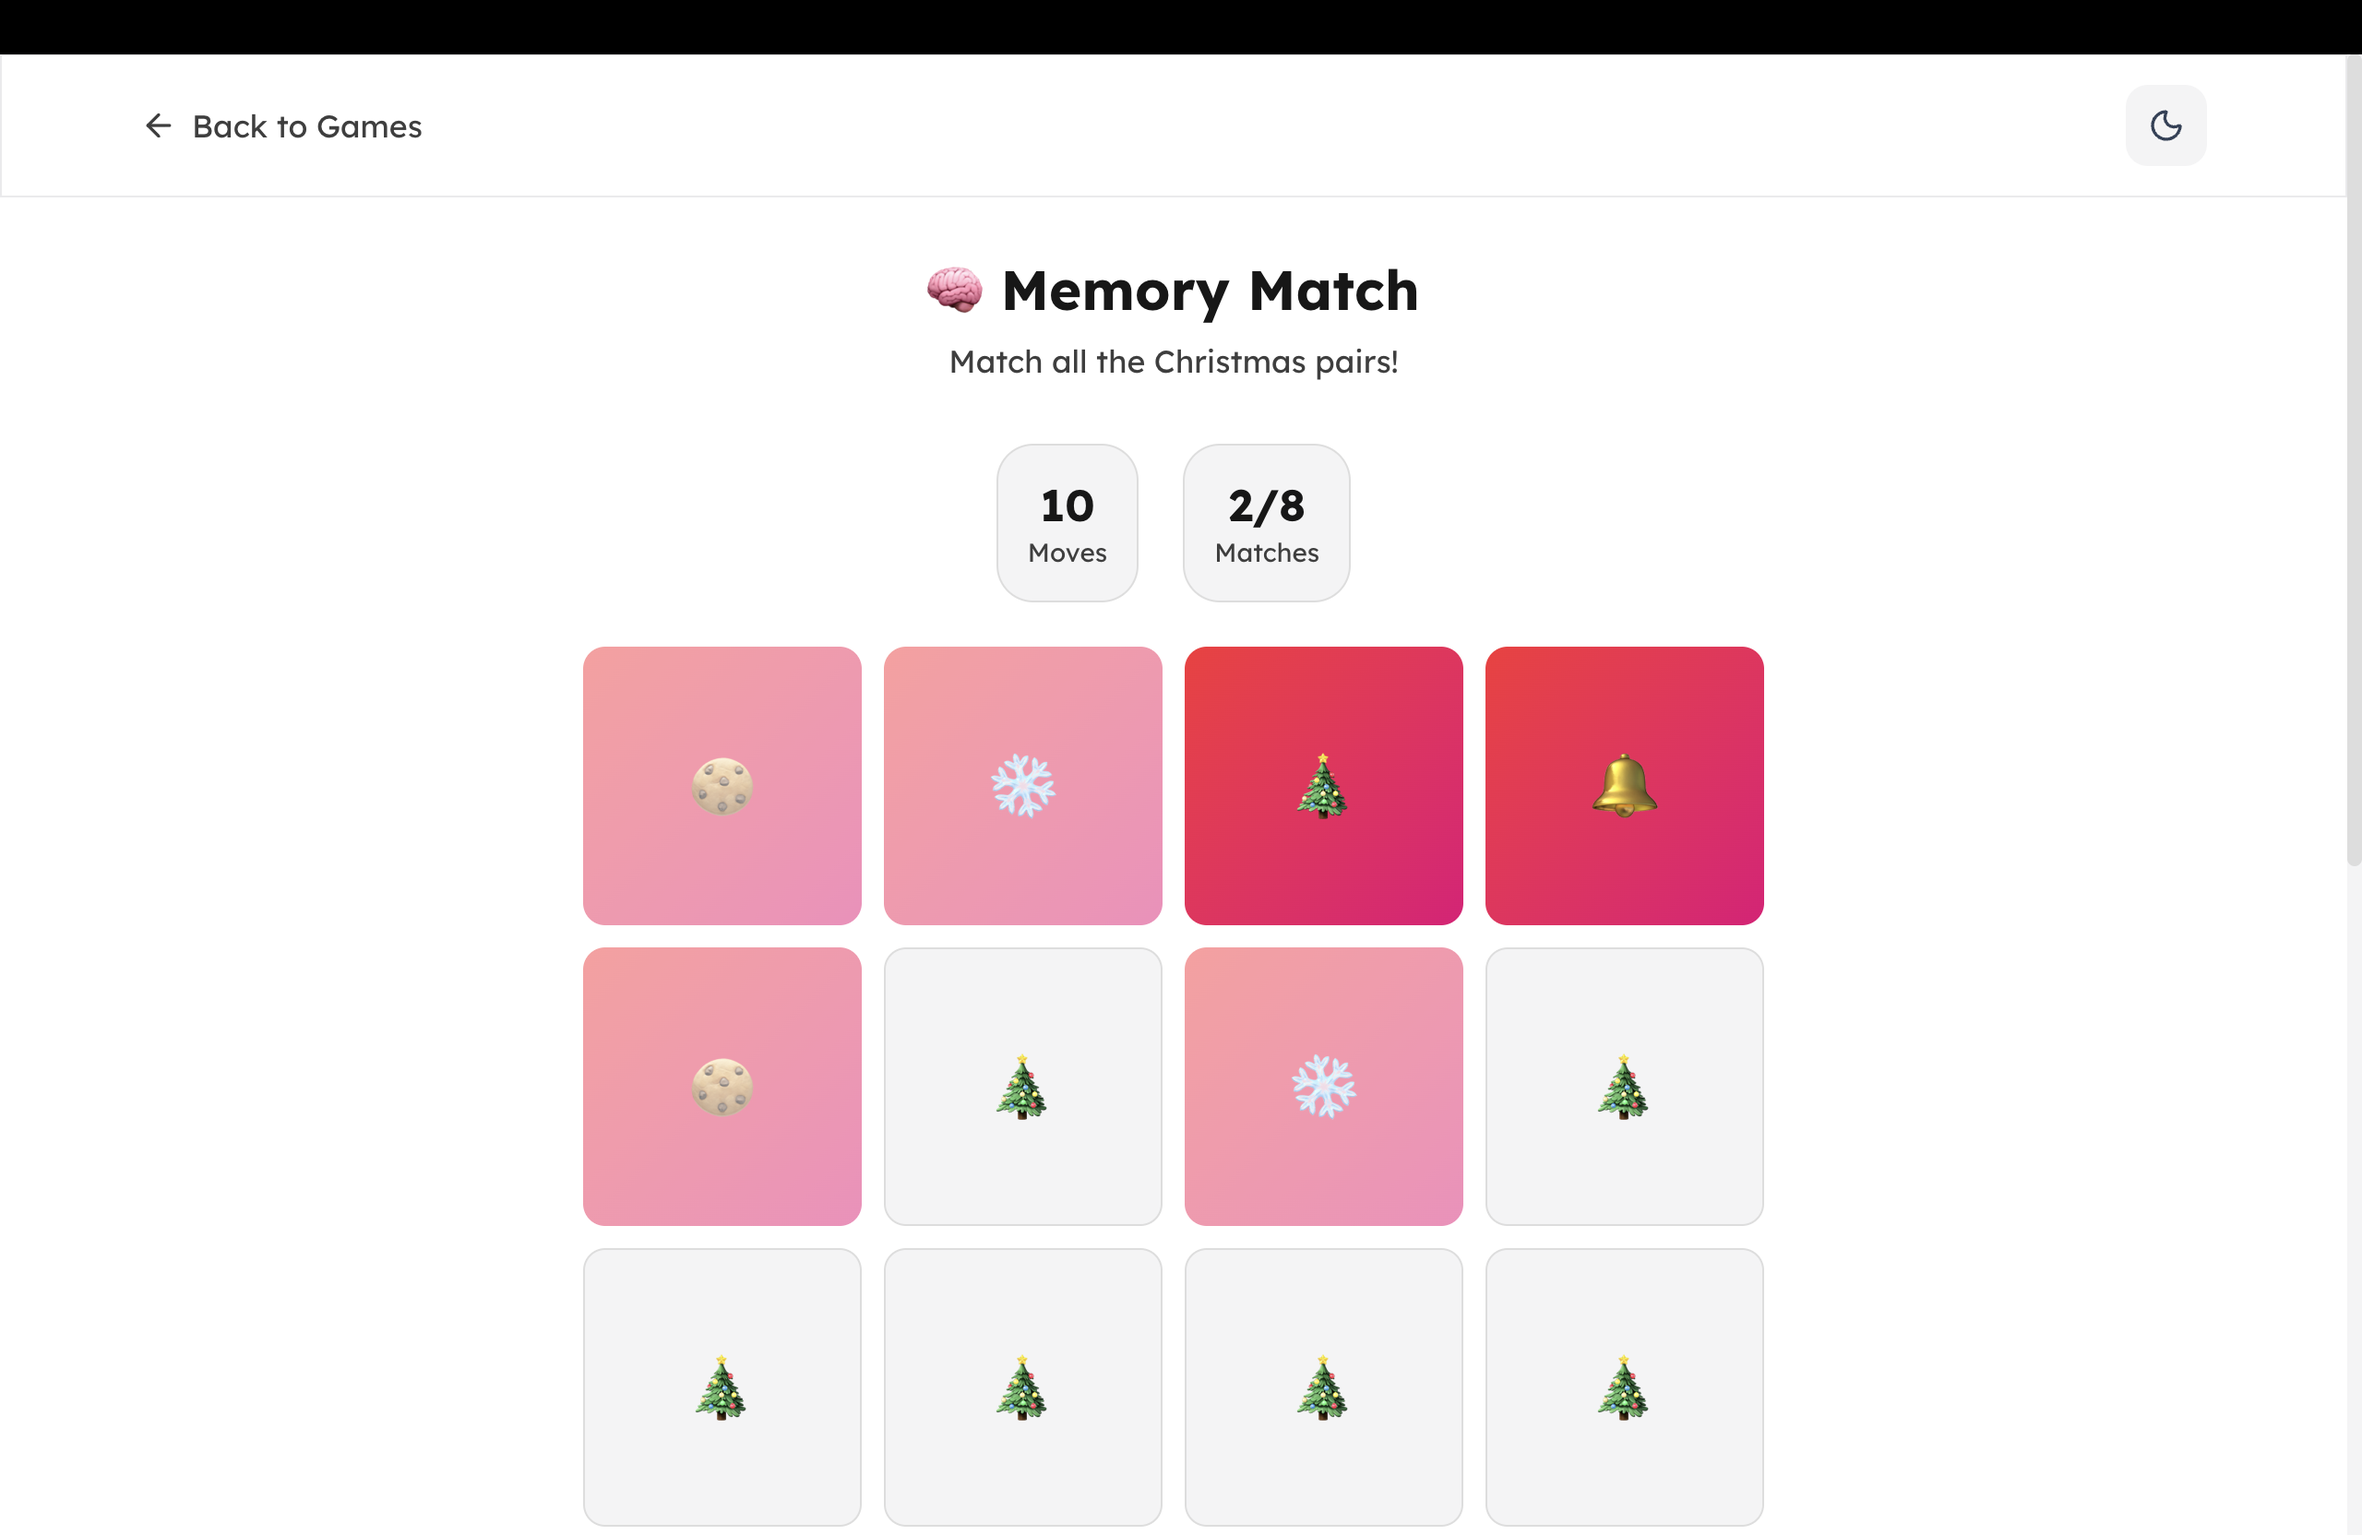
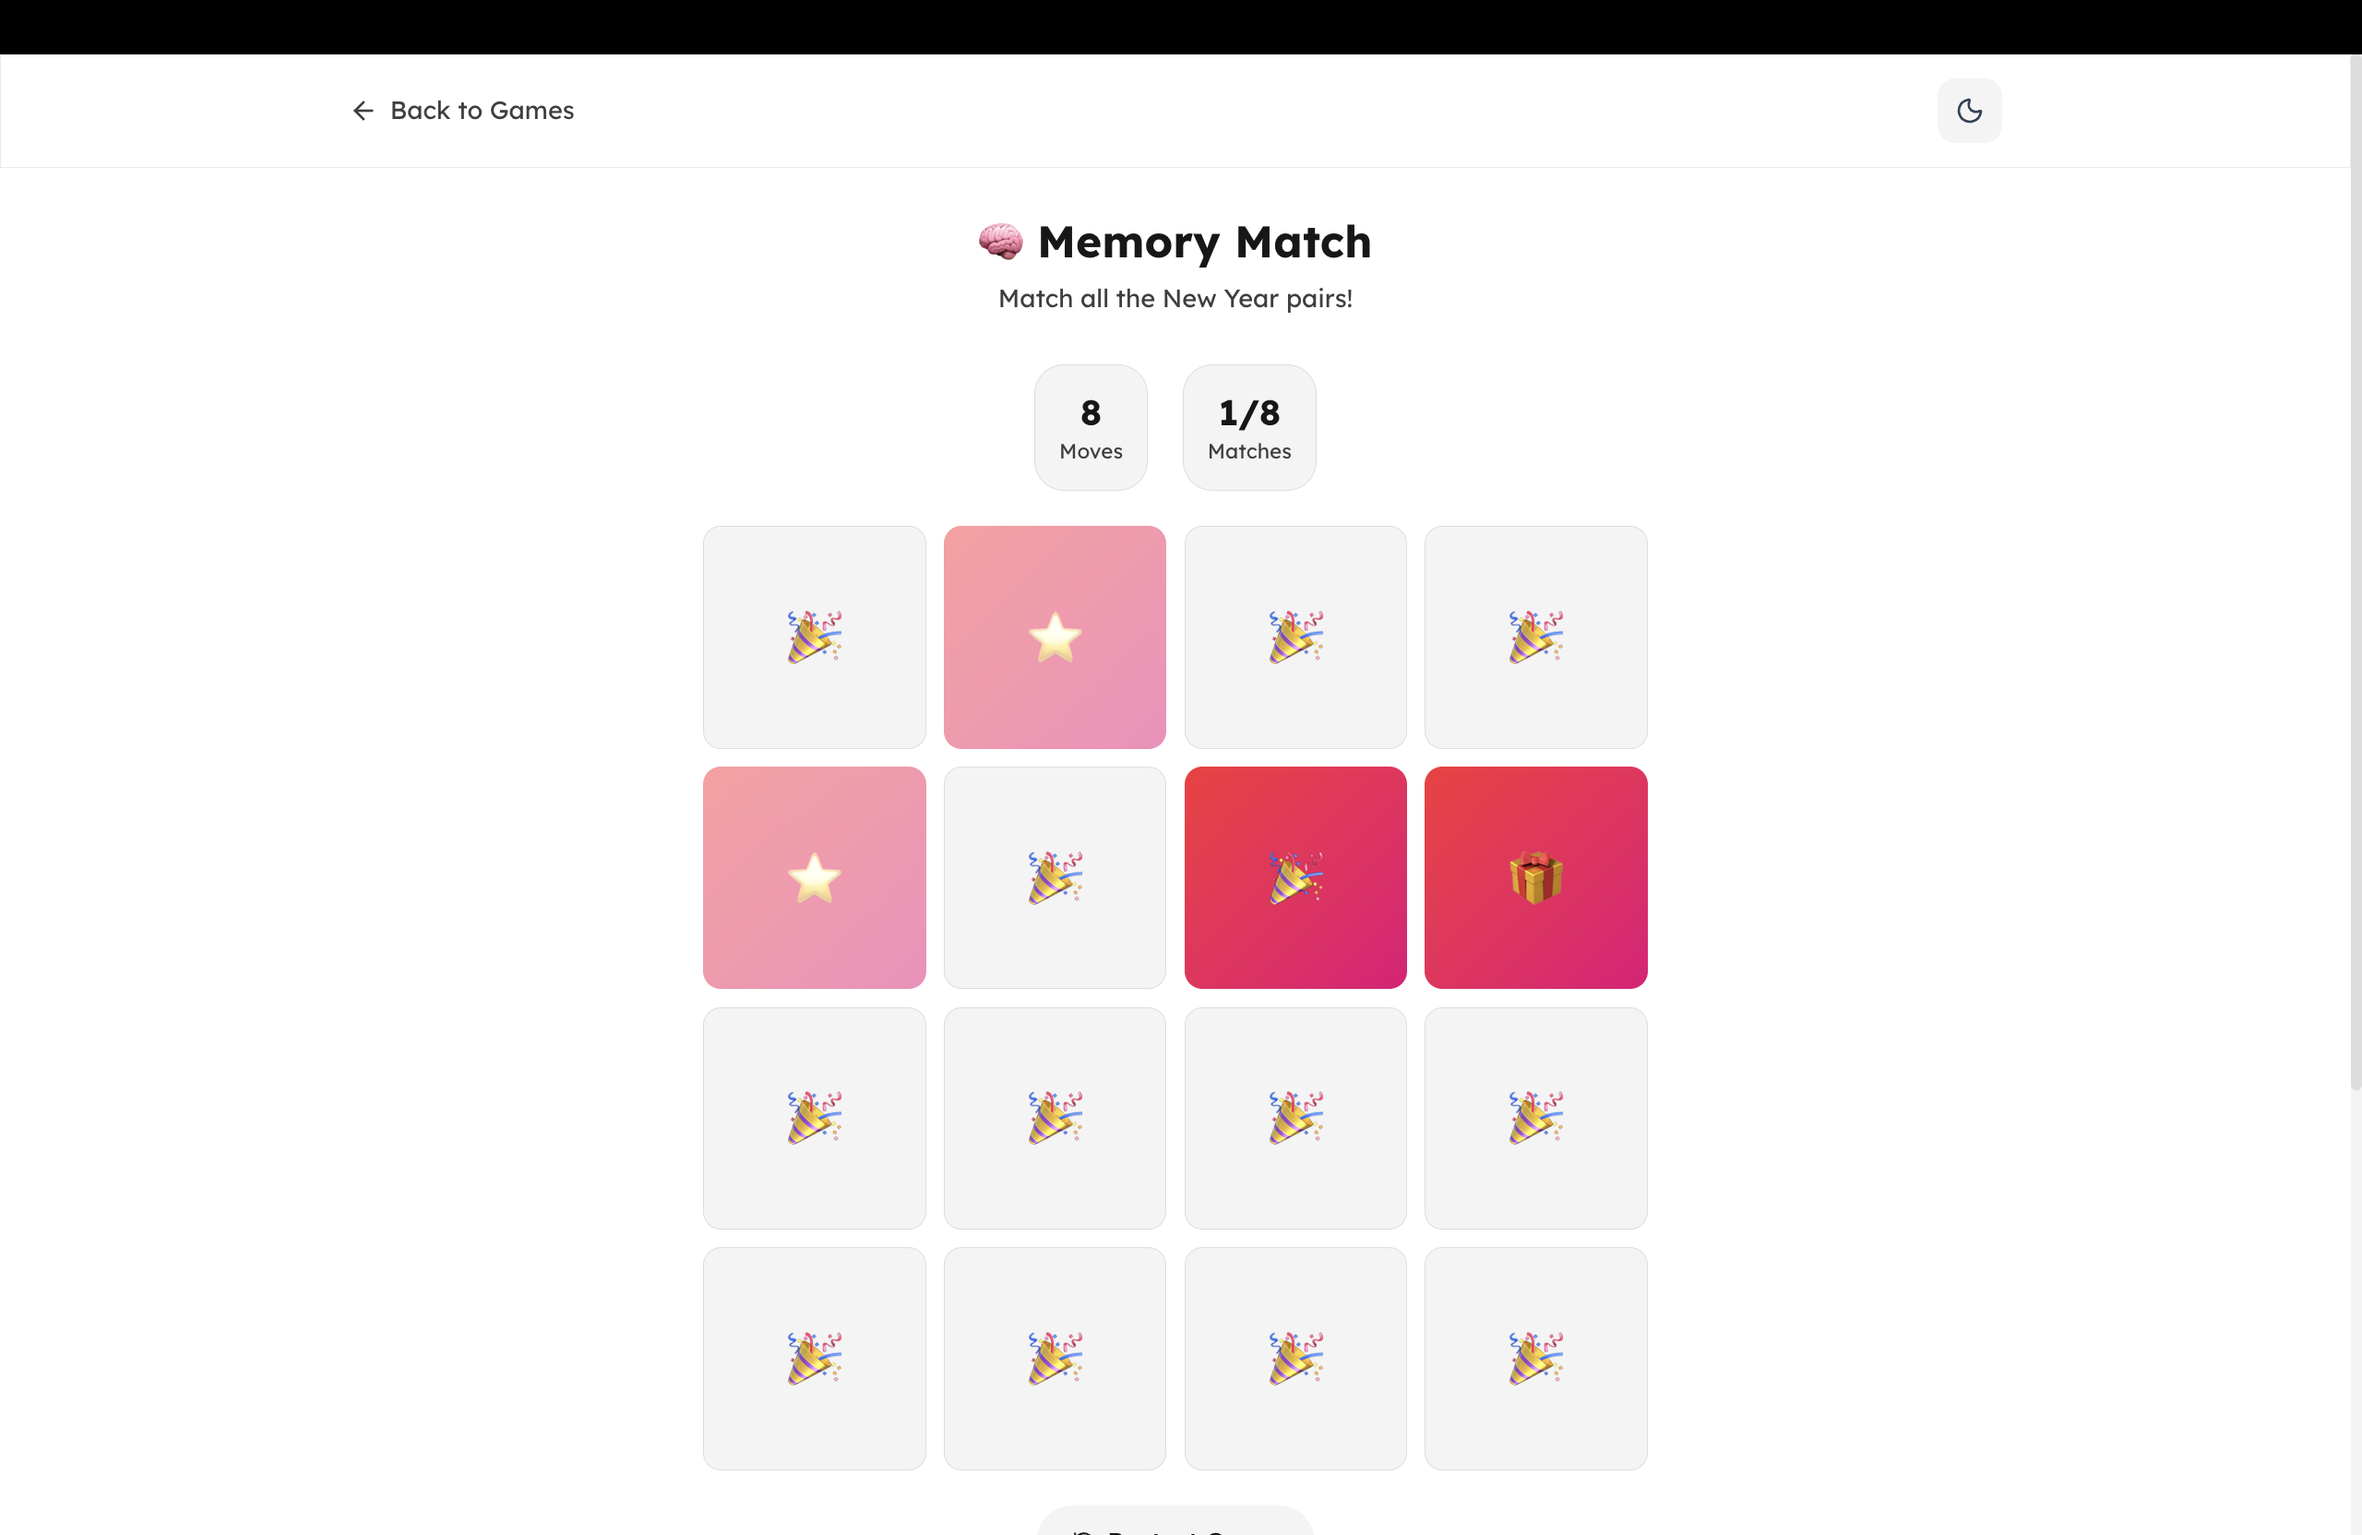
games screenshots changed to new year

diff --git a/src/app/greetings/view/page.tsx b/src/app/greetings/view/page.tsx
@@ -253,12 +253,12 @@ function GreetingContent() {
                     </div>
 
                     {/* Card Type Badge */}
-                    <div className="flex justify-center -mt-4 relative z-10">
+                    <div className="flex justify-center mt-2 relative z-10">
                         <div className="px-5 py-2.5 rounded-full bg-[var(--card-bg)] border border-[var(--card-border)] shadow-lg flex items-center gap-3">
                             <span className="text-xl">{card.emoji}</span>
                             <span className="font-semibold text-base tracking-wide text-[var(--foreground)]">by {senderName || "your friend"}</span>
                         </div>
-                        <span className="h-13 w-13 text-[55px] -mt-4 ml-1">😉</span>
+                        <span className="text-4xl md:text-5xl ml-2">😉</span>
                     </div>
                 </div>
 
@@ -414,7 +414,7 @@ function GreetingContent() {
                                         </div>
                                     </div>
                                     <div className="rounded-2xl overflow-hidden border-2 border-zinc-700 group-hover:border-zinc-600 transition-colors">
-                                        <img src="/games/Christmas_Trivia.png" alt="Christmas Trivia" className="w-full rounded-t-xl" />
+                                        <img src="/games/Trivia.png" alt="New Year Trivia" className="w-full rounded-t-xl" />
                                         <div className="bg-zinc-800 px-4 py-3">
                                             <p className="text-lg text-zinc-200 font-semibold">Trivia Quiz</p>
                                             <p className="text-sm text-zinc-500 mt-1">How much do you know about New Year traditions?</p>
